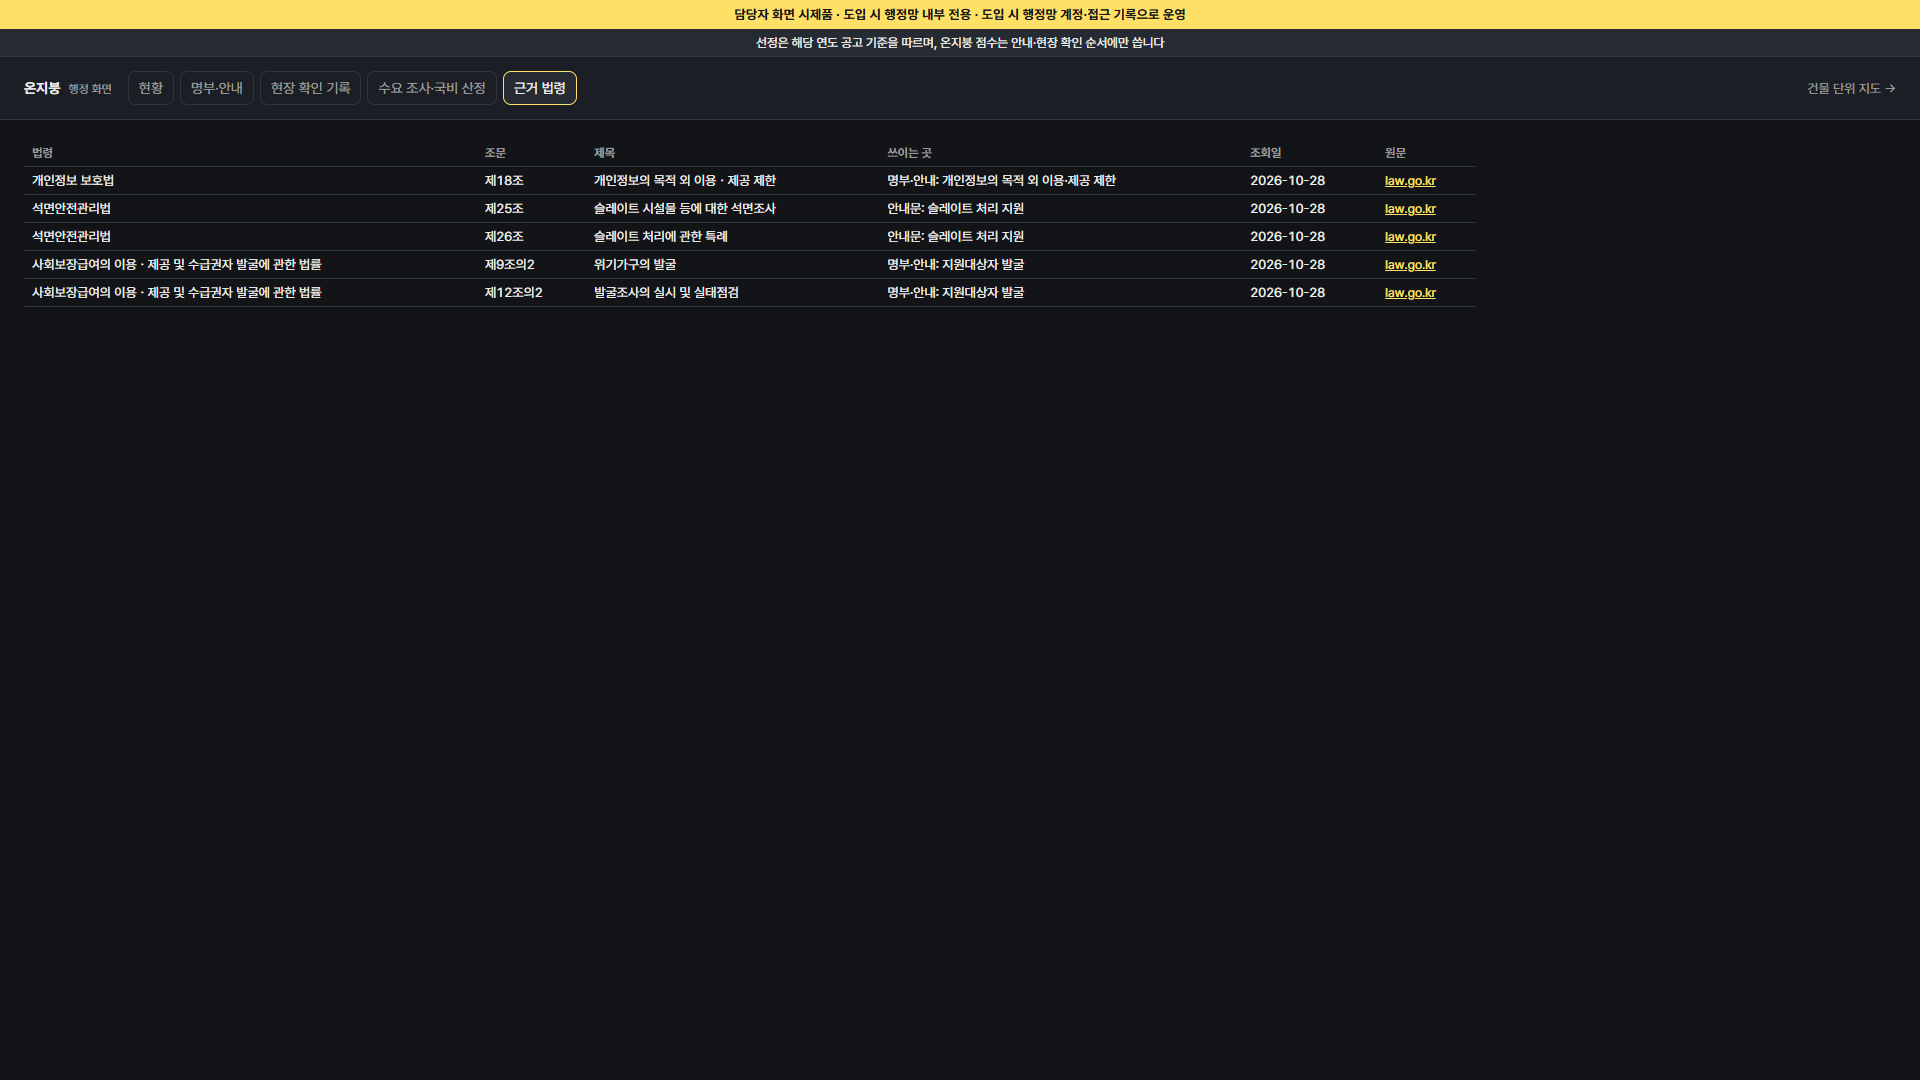
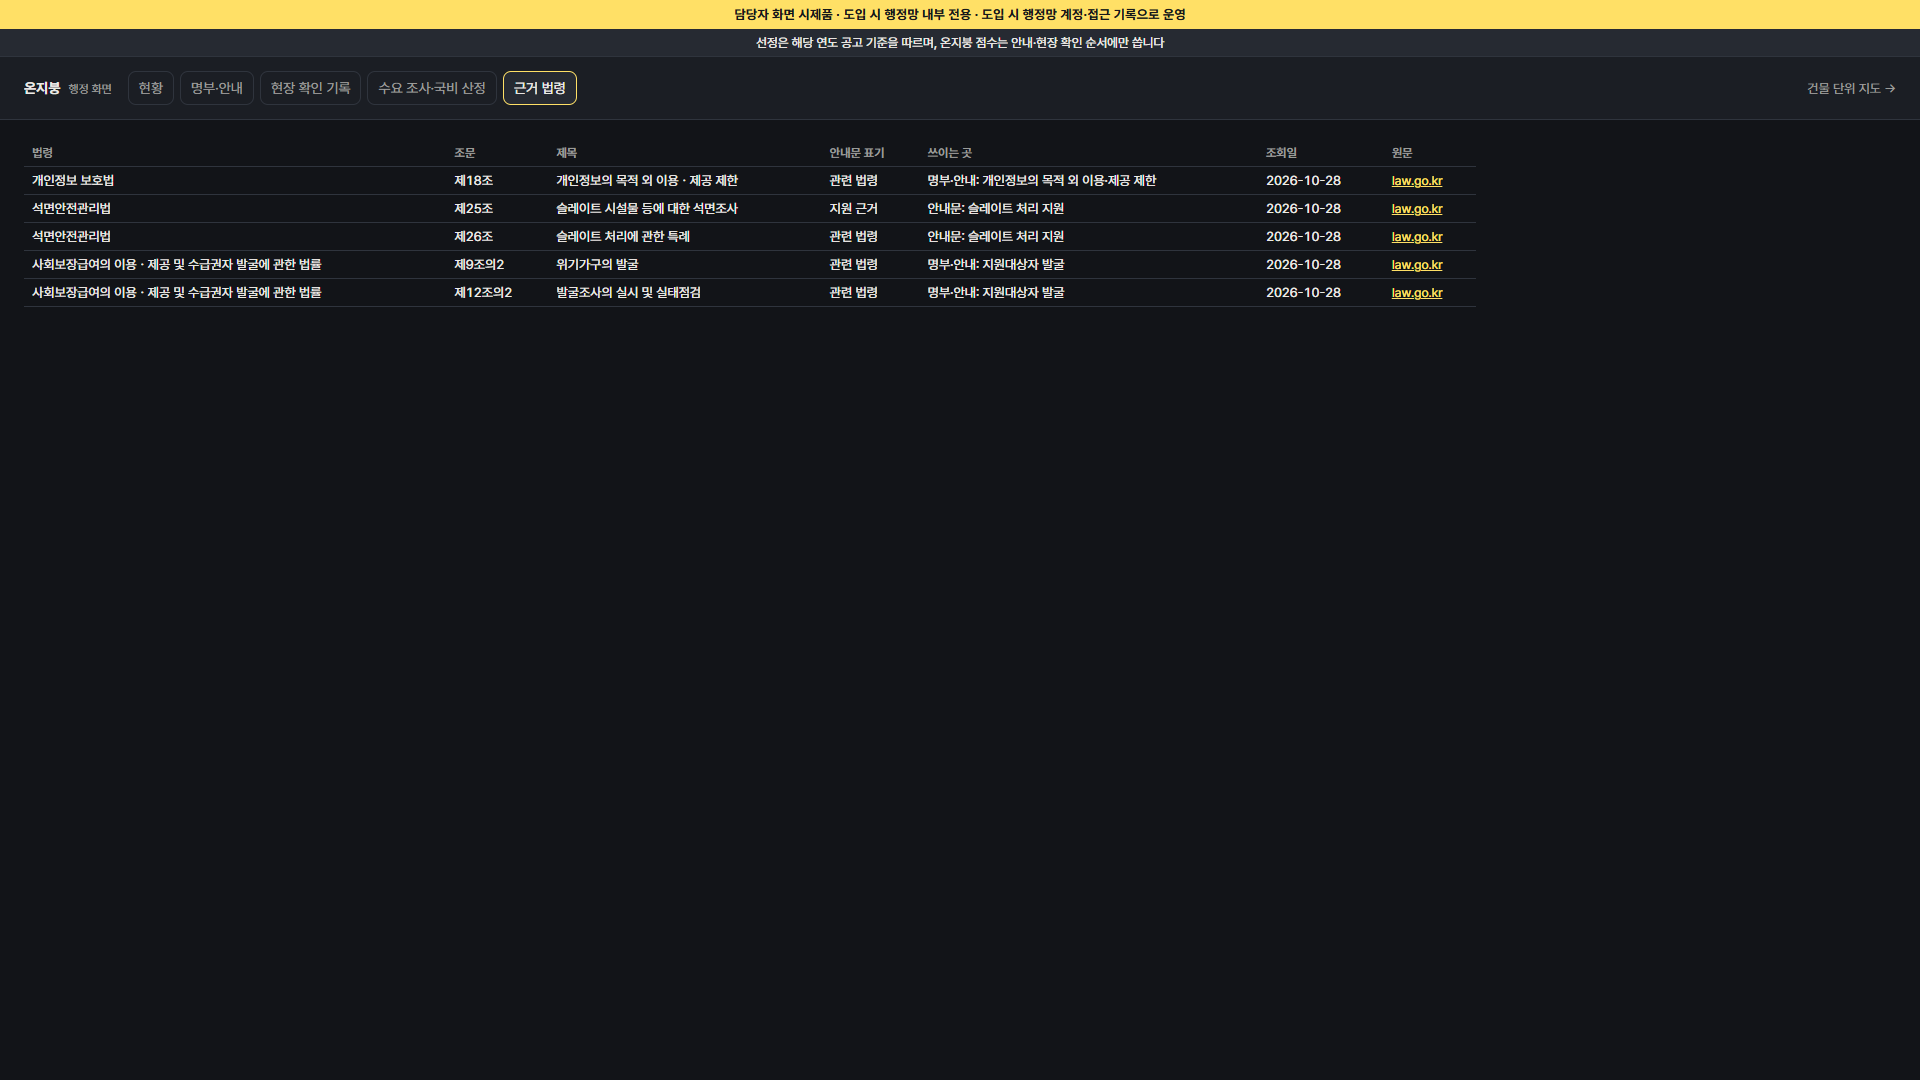
안내문 근거 문구를 조문 본문 기준으로 — 비용 지원 조문만 '근거:', 나머지는 '관련 법령:'

Changed region(s): [[0.2188, 0.1222, 0.4062, 0.275], [0.4375, 0.1222, 0.5938, 0.275], [0.6562, 0.1222, 0.75, 0.275]]

diff --git a/web/app/admin/AdminView.tsx b/web/app/admin/AdminView.tsx
@@ -19,7 +19,7 @@ type Emd = { name: string; houses: number; sure: number; max: number };
 type Summary = { houses: number; sure: number; max: number };
 type Rule = { order: number; label: string; note: string; pattern: string; examples: string[]; n: number };
 type Join = { rows: { name: string; org: string; date: string; unit: string; rate: string }[]; elderly_ym: string };
-type Law = { law: string; article: string; title: string; use: string; fetched: string; url: string };
+type Law = { law: string; article: string; title: string; use: string; fetched: string; url: string; support?: boolean };
 type Tab = "stat" | "list" | "field" | "budget" | "law";
 const SEED = 20261028;
 const POLICY = "선정은 해당 연도 공고 기준을 따르며, 온지붕 점수는 안내·현장 확인 순서에만 씁니다";
@@ -96,7 +96,7 @@ function noticeLines(b: B, law: string): Line[] {
     { text: "■ 신청 장소: 관할 행정복지센터 (읍·면사무소, 동 행정복지센터)" },
     { text: "주소: ______________________________   성명: ______________  (주소·성명은 행정망에서 채움)", style: "small" },
     { text: "※ 대장 기재 기준 안내이며, 실제 지붕 재료는 현장 확인 후 확정됩니다. 선정은 해당 연도 공고 기준을 따릅니다.", style: "small" },
-    ...(law ? [{ text: `근거: ${law}`, style: "small" as const }] : []),
+    ...(law ? [{ text: law, style: "small" as const }] : []),
   ];
 }
 
@@ -178,7 +178,14 @@ export default function AdminView() {
     return c;
   }, [bld, recs]);
   const supCount = useMemo(() => bld.filter((b) => recs[b.id]?.sup).length, [bld, recs]);
-  const lawLine = laws.filter((l) => l.use.includes("안내")).map((l) => `${l.law} ${l.article}`).join(", ");
+  // 안내문 하단: 본문에 비용 지원 내용이 있는 조문만 "근거:", 나머지는 "관련 법령:"(법령명·조문 번호만)
+  const lawName = (l: Law) => (l.law === "개인정보 보호법" && l.article === "제18조" ? `${l.law} 제18조(목적 외 이용·제공 제한)` : `${l.law} ${l.article}`);
+  const joinLaws = (ls: Law[]) => [...new Set(ls.map((l) => l.law))].map((n) => {
+    const g = ls.filter((l) => l.law === n);
+    return g.length === 1 ? lawName(g[0]) : `${n} ${g.map((l) => l.article).join("·")}`;
+  }).join(", ");
+  const lawLine = [laws.some((l) => l.support) && `근거: ${joinLaws(laws.filter((l) => l.support))}`,
+    laws.some((l) => !l.support) && `관련 법령: ${joinLaws(laws.filter((l) => !l.support))}`].filter(Boolean).join(" / ");
 
   const listAll = bld.filter((b) => (fEmd === "전체" || b.p.emd === fEmd)
     && (fKind === "전체" || (fKind === "혼합" ? b.p.rc === "혼합" : b.p.rc !== "혼합"))
@@ -335,7 +342,7 @@ export default function AdminView() {
                 <tr><th>주소</th><td /></tr><tr><th>성명</th><td /></tr>
               </tbody></table>
               <p className="fine">주소·성명은 행정망에서 채움 · 대장 기재 기준 안내이며 실제 지붕 재료는 현장 확인 후 확정됩니다. 선정은 해당 연도 공고 기준을 따릅니다.</p>
-              {lawLine && <p className="fine">근거: {lawLine}</p>}
+              {lawLine && <p className="fine">{lawLine}</p>}
             </section>
           ))}
         </div>
@@ -523,8 +530,8 @@ export default function AdminView() {
           {tab === "law" && (
             laws.length ? (
               <table className="grid">
-                <thead><tr><th>법령</th><th>조문</th><th>제목</th><th>쓰이는 곳</th><th>조회일</th><th>원문</th></tr></thead>
-                <tbody>{laws.map((l) => <tr key={l.law + l.article}><td>{l.law}</td><td>{l.article}</td><td>{l.title}</td><td>{l.use}</td><td>{l.fetched}</td>
+                <thead><tr><th>법령</th><th>조문</th><th>제목</th><th>안내문 표기</th><th>쓰이는 곳</th><th>조회일</th><th>원문</th></tr></thead>
+                <tbody>{laws.map((l) => <tr key={l.law + l.article}><td>{l.law}</td><td>{l.article}</td><td>{l.title}</td><td>{l.support ? "지원 근거" : "관련 법령"}</td><td>{l.use}</td><td>{l.fetched}</td>
                   <td><a className="rv" href={l.url} target="_blank" rel="noreferrer">law.go.kr</a></td></tr>)}</tbody>
               </table>
             ) : (

diff --git a/src/fetch_laws.py b/src/fetch_laws.py
@@ -2,7 +2,7 @@
 
 - 조문 번호·제목은 API 응답 그대로 쓴다. 못 찾은 항목은 넣지 않고 화면에 출력해 보고한다.
 - 인증값 OC는 .env 의 LAW_OC. 신청 시 등록한 도메인을 Referer로 보낸다. 값은 출력하지 않는다.
-출력: web/public/data/legal_basis.json
+출력: web/public/data/legal_basis.json (조문 본문 text, 지원·비용·보조 단어 여부 keyword, 비용 지원 내용 여부 support)
 """
 import datetime as dt
 import json
@@ -62,7 +62,11 @@ for name, pick, use in TARGETS:
         missing.append(f"{name}: '{pick}' 조문 없음")
     for a in sel:
         no = f"제{a['조문번호']}조" + (f"의{a['조문가지번호']}" if a.get("조문가지번호") else "")
-        out.append({"law": name, "article": no, "title": a.get("조문제목") or "", "use": use, "fetched": today,
+        body = re.sub(r"\s+", " ", text([a.get("조문내용"), a.get("항")])).strip()
+        out.append({"law": name, "article": no, "title": a.get("조문제목") or "", "use": use, "fetched": today, "text": body,
+                    "keyword": bool(re.search(r"지원|비용|보조", body)),
+                    # 지원 근거 = 본문에 비용·보조를 지원한다는 내용이 있는 조문 ('지원대상자' 같은 용어만 있는 것은 제외)
+                    "support": bool(re.search(r"(비용|보조)[^.]{0,40}지원|지원[^.]{0,10}(비용|보조)|보조금", body)),
                     "url": f"https://www.law.go.kr/법령/{name}/{no}"})
 (ROOT / "web" / "public" / "data" / "legal_basis.json").write_text(json.dumps(out, ensure_ascii=False, indent=1), encoding="utf-8")
 for o in out:

diff --git a/src/check_admin.py b/src/check_admin.py
@@ -128,7 +128,7 @@ with sync_playwright() as p:
     d.value.save_as(str(hw))
     sec = z.read("Contents/section0.xml").decode("utf-8")
     ok("주소·성명은 행정망에서 채움" in sec and "소유자 및 거주자 귀하" in sec and "해당 연도 공고 금액" in sec and "만 원" not in sec and "소유자의 동의" in sec, "HWPX 안내문 문안")
-    ok("석면안전관리법 제26조" in sec, "안내문 근거 조문 줄")
+    ok("근거: 석면안전관리법 제25조" in sec and "관련 법령: 개인정보 보호법 제18조(목적 외 이용·제공 제한)" in sec, "안내문 근거·관련 법령 줄")
     with pg.expect_download() as d:
         pg.get_by_text("방문 목록 CSV").click()
     h2 = next(csv.reader(io.StringIO(Path(d.value.path()).read_bytes().decode("utf-8-sig"))))
